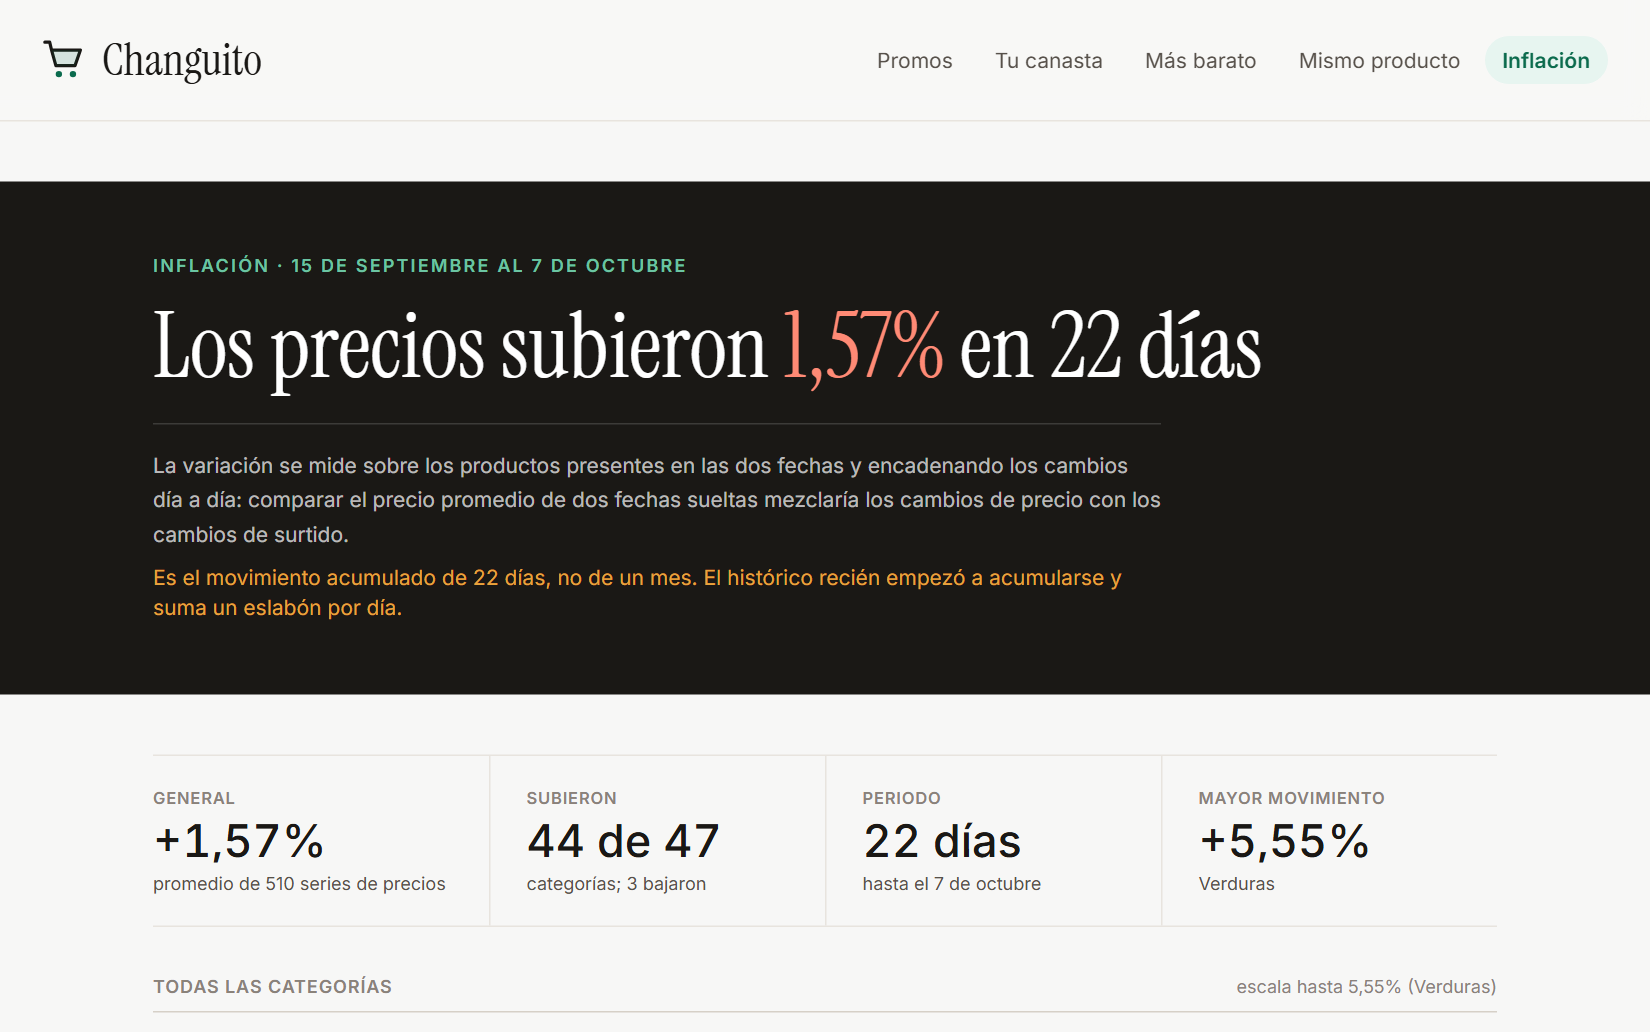
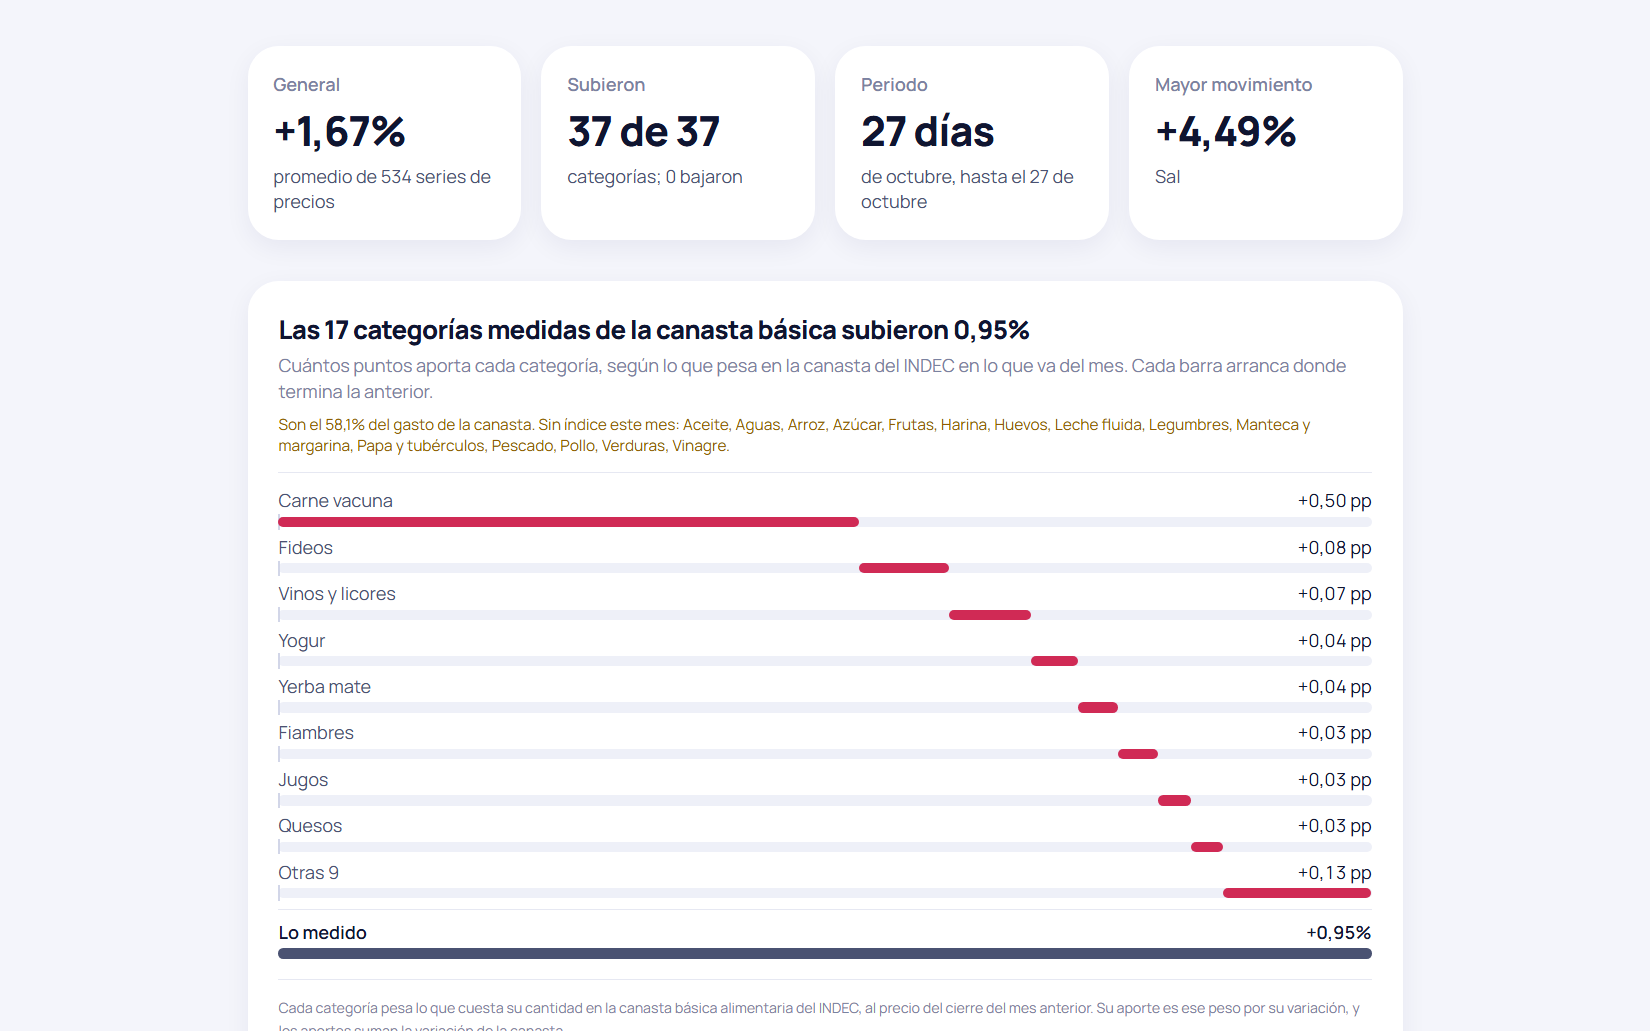
README: capturas del diseño actual
Portada, Más barato, Mismo producto e Inflación (con la cascada), en vez de
las de antes del rediseño.

diff --git a/README.md b/README.md
@@ -8,11 +8,11 @@ Comercio.
 
 ### [Ver el sitio →](https://precios-sepa-api-803135877045.us-central1.run.app)
 
-[![Changuito: las promos de hoy en el mapa](docs/img/changuito-promos.png)](https://precios-sepa-api-803135877045.us-central1.run.app)
+[![Changuito: la portada con las cifras del día](docs/img/changuito-portada.png)](https://precios-sepa-api-803135877045.us-central1.run.app)
 
-| Tu canasta, cotizada | Tu lista: dónde te conviene la compra | Inflación por categoría |
+| Más barato: el mapa del mercado | Mismo producto, todas las cadenas | Inflación: cuánto aporta cada categoría |
 |---|---|---|
-| [![Tu canasta](docs/img/changuito-tu-canasta.png)](https://precios-sepa-api-803135877045.us-central1.run.app/canasta-personalizada) | [![Tu lista](docs/img/changuito-tu-lista.png)](https://precios-sepa-api-803135877045.us-central1.run.app/mismo-producto) | [![Inflación](docs/img/changuito-inflacion.png)](https://precios-sepa-api-803135877045.us-central1.run.app/inflacion) |
+| [![Más barato](docs/img/changuito-mas-barato.png)](https://precios-sepa-api-803135877045.us-central1.run.app/quien-gana) | [![Mismo producto](docs/img/changuito-mismo-producto.png)](https://precios-sepa-api-803135877045.us-central1.run.app/mismo-producto) | [![Inflación](docs/img/changuito-inflacion.png)](https://precios-sepa-api-803135877045.us-central1.run.app/inflacion) |
 
 ## En 30 segundos
 
